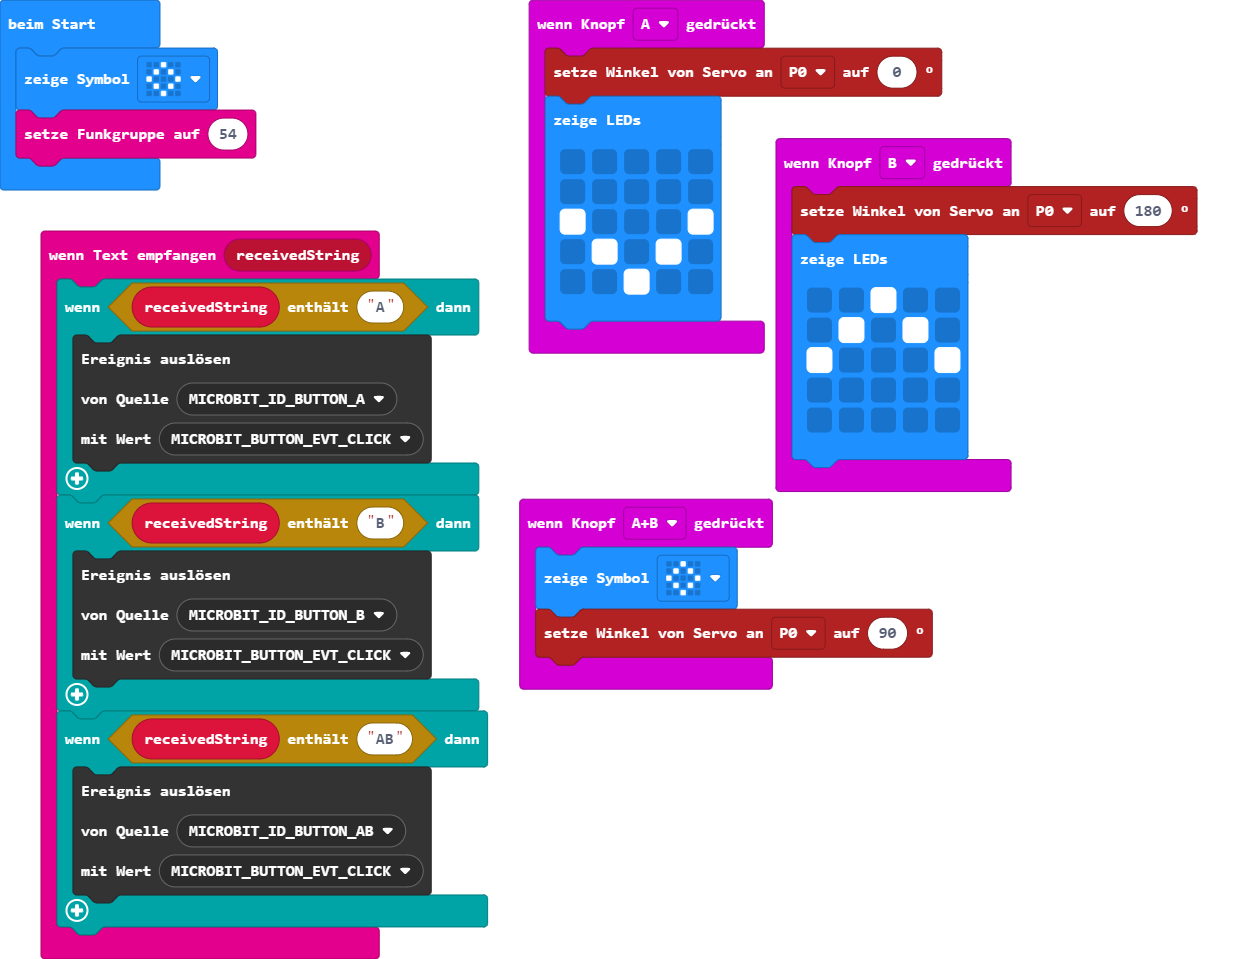
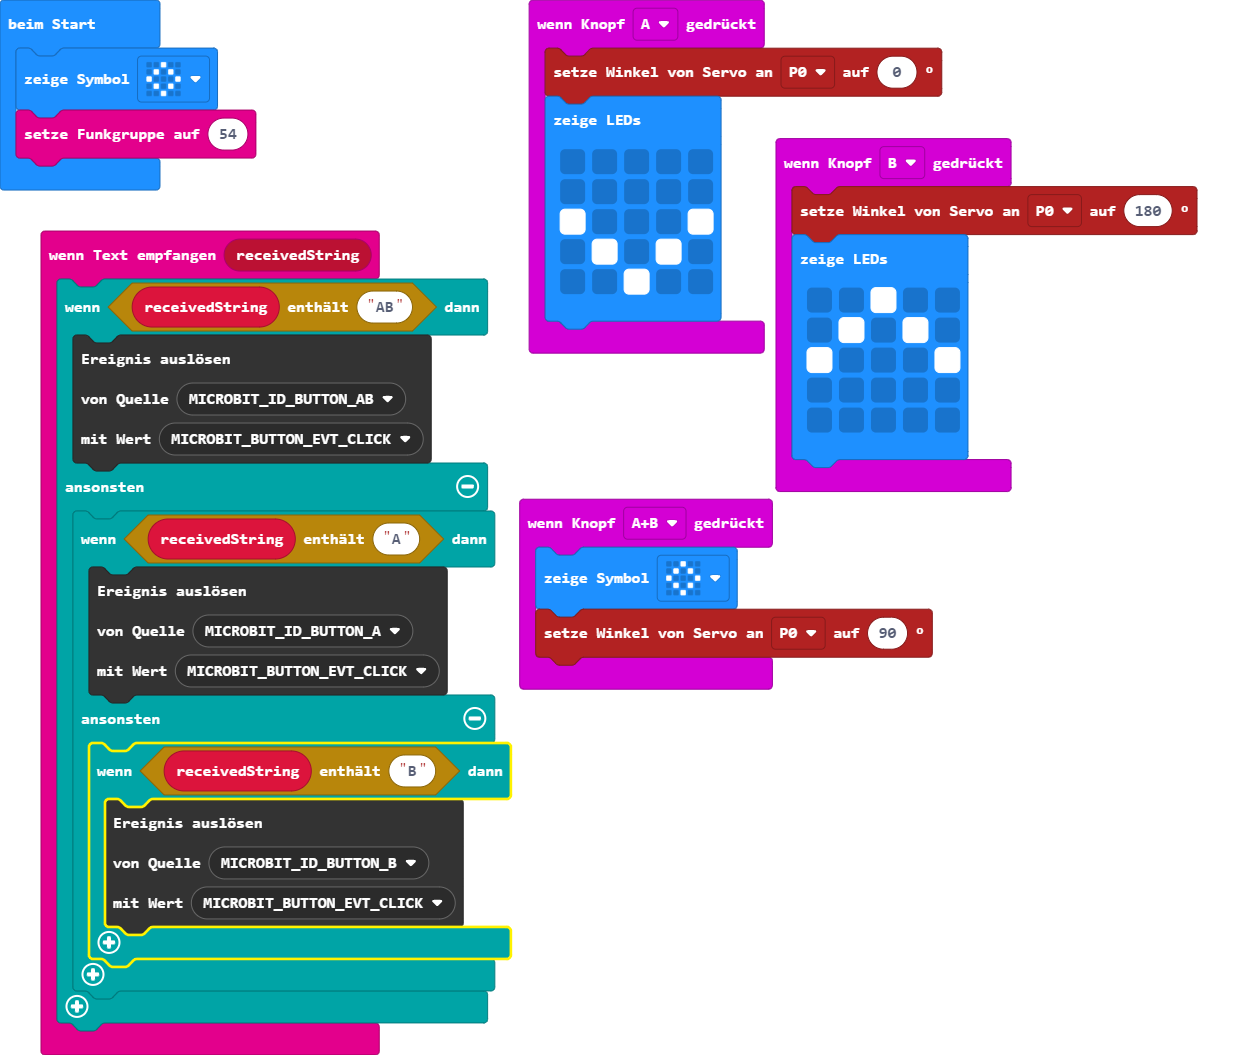
Aktualisiere main.blocks, main.ts

diff --git a/main.ts b/main.ts
@@ -13,23 +13,25 @@ input.onButtonPressed(Button.AB, function () {
     pins.servoWritePin(AnalogPin.P0, 90)
 })
 radio.onReceivedString(function (receivedString) {
-    if (receivedString.includes("A")) {
-        control.raiseEvent(
-        EventBusSource.MICROBIT_ID_BUTTON_A,
-        EventBusValue.MICROBIT_BUTTON_EVT_CLICK
-        )
-    }
-    if (receivedString.includes("B")) {
-        control.raiseEvent(
-        EventBusSource.MICROBIT_ID_BUTTON_B,
-        EventBusValue.MICROBIT_BUTTON_EVT_CLICK
-        )
-    }
     if (receivedString.includes("AB")) {
         control.raiseEvent(
         EventBusSource.MICROBIT_ID_BUTTON_AB,
         EventBusValue.MICROBIT_BUTTON_EVT_CLICK
         )
+    } else {
+        if (receivedString.includes("A")) {
+            control.raiseEvent(
+            EventBusSource.MICROBIT_ID_BUTTON_A,
+            EventBusValue.MICROBIT_BUTTON_EVT_CLICK
+            )
+        } else {
+            if (receivedString.includes("B")) {
+                control.raiseEvent(
+                EventBusSource.MICROBIT_ID_BUTTON_B,
+                EventBusValue.MICROBIT_BUTTON_EVT_CLICK
+                )
+            }
+        }
     }
 })
 input.onButtonPressed(Button.B, function () {
